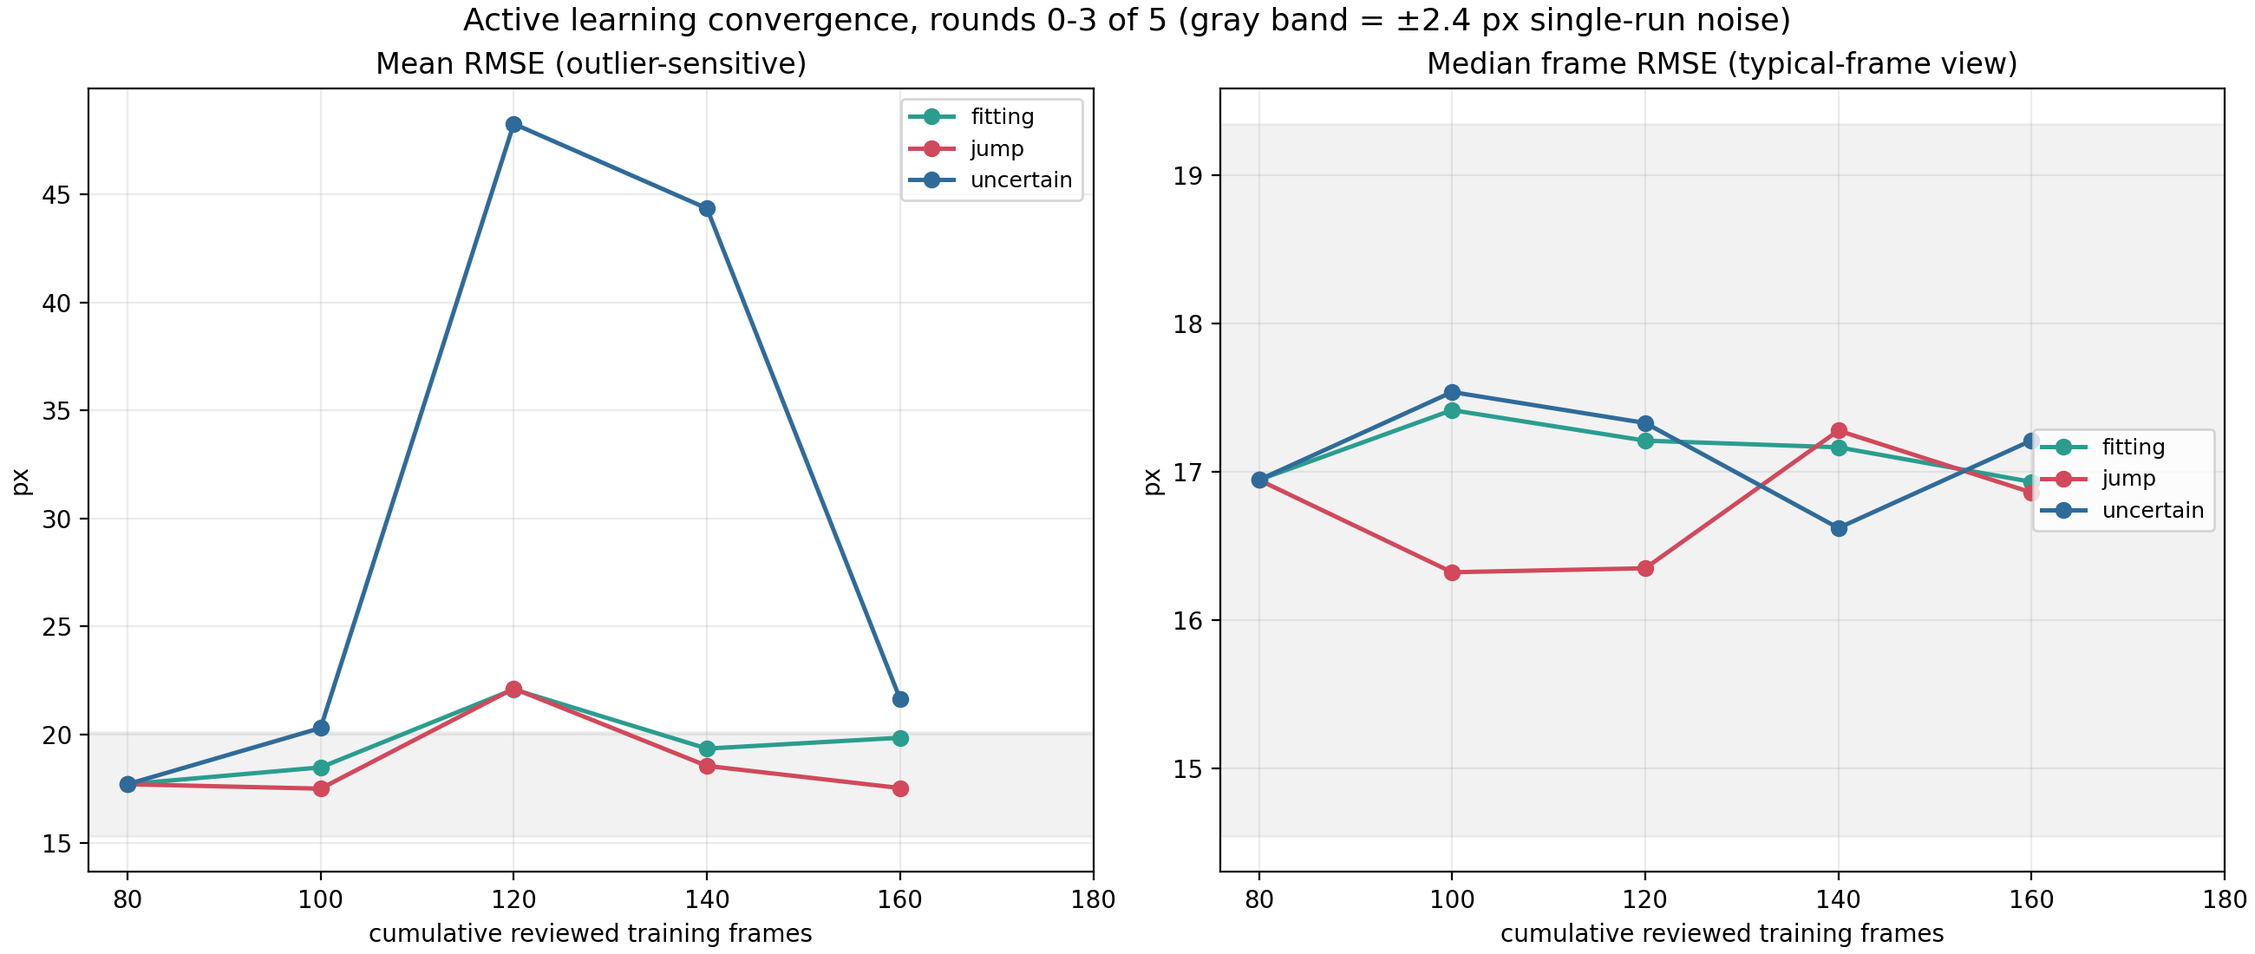
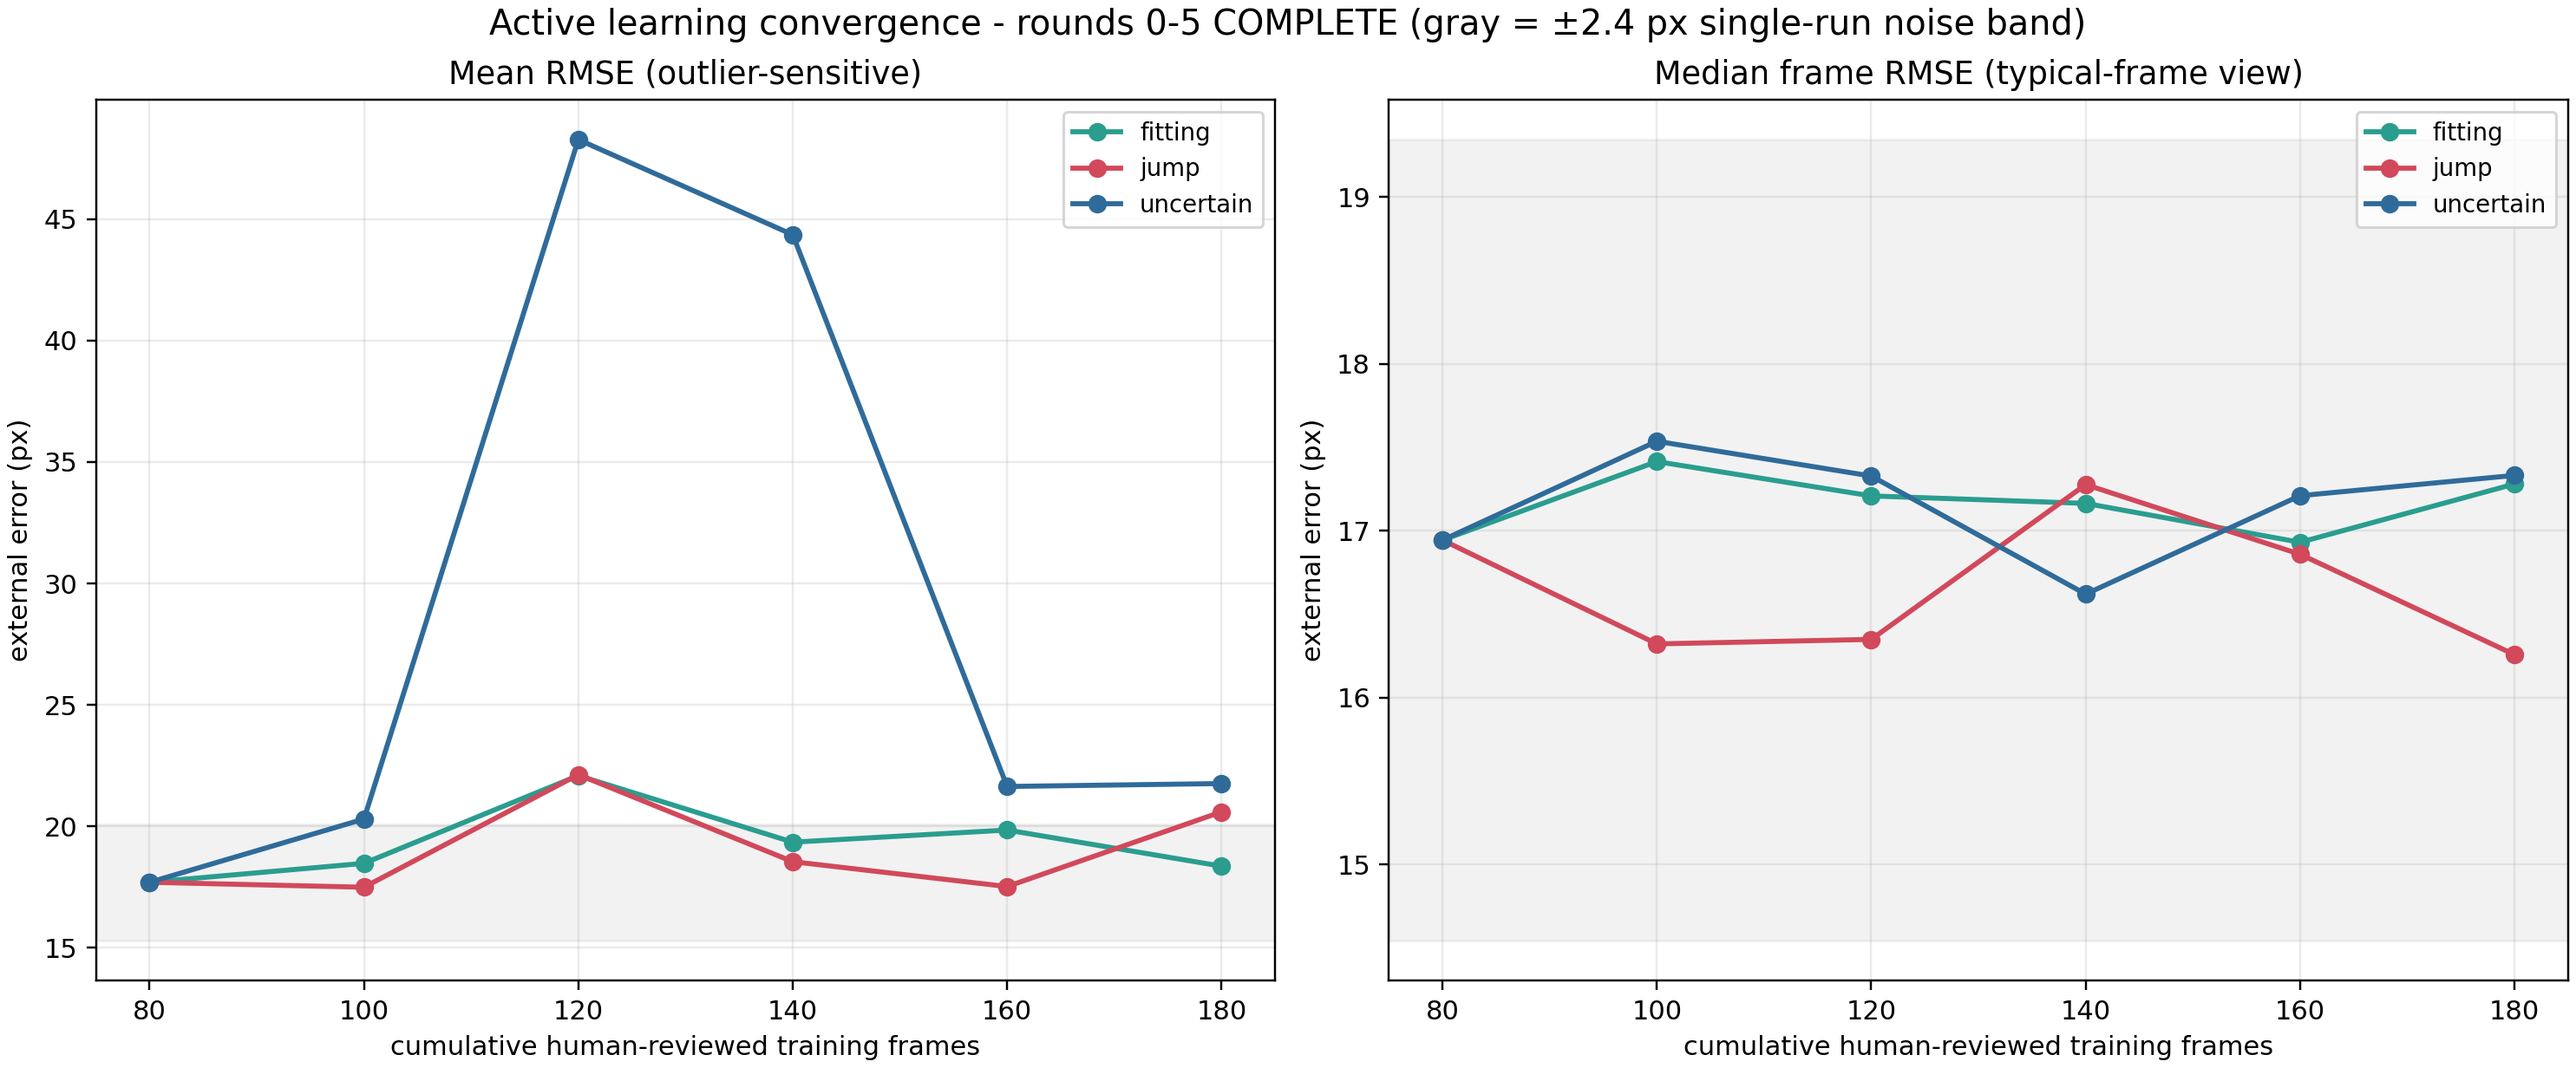
Active learning rounds 0-5 complete: flat medians, indistinguishable detectors
The convergence curves deliver a decisive null: 100 targeted labels bought no
external improvement for any detector, medians pinned at 16-17 px inside the
noise band, and the plateau rule fires at round 2 across the board. The
finding reframes the label budget question - eighty consistent frames already
saturate this video's typical frames - and redirects effort to
likelihood-gated blink handling, where every branch kept rediscovering the
same occluded moments.

diff --git a/active-learning/results/README.md b/active-learning/results/README.md
@@ -1,0 +1,59 @@
+# Active Learning: Final Results (rounds 0-5 complete)
+
+Three outlier detectors competed under one frozen protocol
+(../FROZEN_PARAMETERS.md): identical ResNet-50 / batch 2 / 100-epoch training
+from scratch each round, identical seed labels, k-means extraction; the only
+variable was the detector nominating candidate frames (uncertain p_bound=0.6,
+jump epsilon=20, fitting epsilon=20). Each branch grew 80 -> 180 reviewed
+training frames over five rounds; every point below is one evaluation on the
+report-only final-minute 100 frames.
+
+## Headline result
+
+**Adding 100 targeted labels did not improve external error for any branch,
+and the three detectors are statistically indistinguishable.**
+
+- Median frame error stayed flat for all branches across all rounds
+  (16.3-17.5 px, entirely inside the ±2.4 px single-run noise band).
+- No branch's mean ever finished below the 17.70 px baseline; the mean's
+  excursions (up to 48 px) were driven by 3-6 catastrophic frames, not by
+  typical-frame quality.
+- The frozen plateau rule (two consecutive rounds < 5% improvement) fires at
+  round 2 for every branch - improvement never materialised.
+
+## What the flat curve means (the actual finding)
+
+1. ~80 well-reviewed frames already saturate typical-frame performance on
+   this test set. The scaling question the lab asked ("how many labels are
+   enough?") has a concrete answer at this video's difficulty: about eighty,
+   provided the labels are consistent.
+2. The residual error budget is not label-starvation. It splits into
+   (a) an irreducible-looking ~16-17 px floor on ordinary frames - of the
+   same order as human relabeling shifts, i.e. close to label noise - and
+   (b) a handful of blink/occlusion frames (led by the recurring
+   160.5-160.7 s event and the historic frame16232) where "locate the pupil"
+   is ill-posed because the pupil is not visible.
+3. Every branch kept selecting those same pathological moments from opposite
+   suspicion logics, and the human answer was to leave occluded points empty.
+   The productive next step is therefore not more keypoint labels but
+   likelihood-gated blink/occlusion handling - exactly the lab's next goal.
+
+## Detector comparison
+
+No winner. All three curves live inside the noise band of each other. jump
+ended with the best median (16.26 px), fitting with the best final mean
+(18.36 px), uncertain spent two rounds hostage to blink frames before
+recovering - all differences are within ±2.4 px single-run noise. Under this
+protocol and data scale, detector choice did not matter; frame budget spent
+anywhere among the three bought the same (null) improvement.
+
+## Files
+
+- `convergence.csv` - all 18 points (branch, round, cumulative frames, mean,
+  median, confidence, evaluated label).
+- `01_convergence_curves.png` - mean + median curves with the noise band.
+- `round1_selection_report.json` - round-1 selections and collision audit.
+
+Caveats: single run per point (no repeated seeds); the report set, while
+never used for selection, is one specific minute of one video; conclusions
+are about this data scale and difficulty, not about active learning at large.

diff --git a/CHANGELOG.md b/CHANGELOG.md
@@ -150,3 +150,25 @@ First result of the second era (reviewed labels, temporal block 80/20 split,
 
 Architecture comparison at batch 2 started the same morning (shuffles 25-28
 plus shuffle 21 reused for HRNet-W32).
+
+## v0.4.0 - 2026-09-12 - Active learning complete: a decisive null result
+
+Tag: `v0.4.0`
+
+Five rounds, three branches (uncertain / jump / fitting), 300 human-reviewed
+frames added under the frozen protocol, every point scored once on the
+report-only final-minute set.
+
+- Median frame error flat for every branch and round (16.3-17.5 px, inside
+  the measured ±2.4 px single-run noise band); no mean finished below the
+  17.70 px baseline. The frozen plateau rule fires at round 2 everywhere.
+- Detectors statistically indistinguishable; the branch means' excursions
+  (up to 48 px) trace to 3-6 blink/occlusion frames - all branches kept
+  rediscovering the same 160.5-160.7 s event from different suspicion logics.
+- Conclusion delivered by the curves: ~80 consistent labels saturate
+  typical-frame accuracy here; the residual budget is label-noise-order floor
+  plus ill-posed occluded frames, so the next lever is likelihood-gated
+  blink/occlusion handling, not more keypoint labels.
+- Operationally: MPS training (9x) plus interleaved human/machine scheduling
+  compressed the planned 5-day experiment into ~30 hours; 15/15 label batches
+  audited; per-round provenance in active-learning/branches (local).
